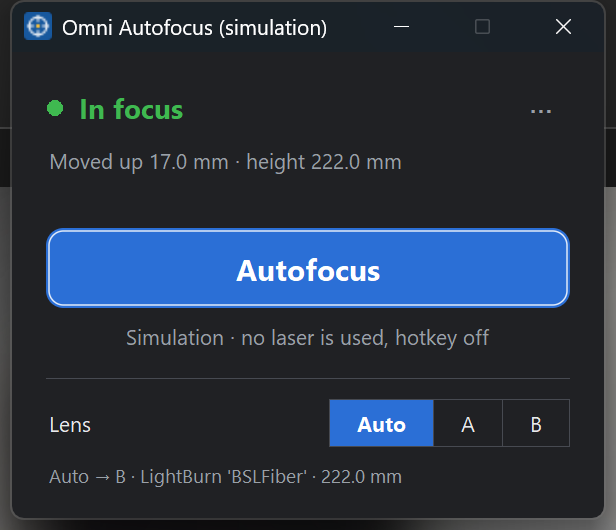
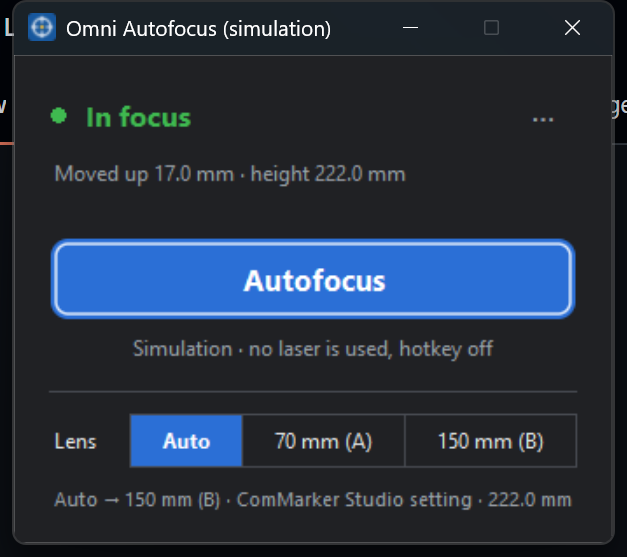
Show lenses by size in the app: 70 mm (A) / 150 mm (B)
The picker, the lens line, the first-use dialog and the fine-tuning result
name lenses by their field size from the laser's calibration, keeping
ComMarker's letter in brackets. Refreshed README screenshots.

diff --git a/src/omni_autofocus/app.py b/src/omni_autofocus/app.py
@@ -30,7 +30,19 @@ APP_NAME = "Omni Autofocus"
 RUN_KEY = r"Software\Microsoft\Windows\CurrentVersion\Run"
 RUN_VALUE = "OmniAutofocus"
 MUTEX_NAME = "Local\\OmniAutofocusApp"
-LENS_CHOICES = {"Auto": None, "A": "a", "B": "b"}
+LENS_CHOICES = {"Auto": None, "A": "a", "B": "b"}  # picker values (saved in the app state)
+
+
+def lens_name(letter: str, focus: config.FocusSettings) -> str:
+    """'150 mm (B)': the lens's field size from the calibration, with ComMarker's letter."""
+    letter = letter.upper()
+    size = focus.field_b_mm if letter == "B" else focus.field_a_mm
+    return f"{size:g} mm ({letter})"
+
+
+def lens_labels(focus: config.FocusSettings) -> dict[str, str]:
+    return {"Auto": "Auto", "A": lens_name("A", focus), "B": lens_name("B", focus)}
+
 
 # Status tones; ui.Palette has a colour for each.
 OK, WARN, ERR, INFO, BUSY = "ok", "warn", "err", "info", "busy"
@@ -46,7 +58,7 @@ class Cancelled(Exception):
 def describe_error(e: BaseException) -> str:
     """A short, actionable sentence for anything an operation can raise."""
     if isinstance(e, lens.LensError):
-        return "Cannot tell which lens is fitted. Choose Lens A or Lens B in this window."
+        return "Cannot tell which lens is fitted. Choose the lens size in this window."
     if isinstance(e, ControllerBusyError):
         return "The laser is busy. Stop the LightBurn job or close the framing preview, then try again."
     if isinstance(e, SensorNoTargetError):
@@ -92,10 +104,13 @@ def describe_result(r: autofocus.FocusResult) -> tuple[str, str, str]:
     return "Already in focus", f"Height {r.height_mm:.1f} mm · focus {r.target_mm:.1f} mm", OK
 
 
-def lens_summary(choice: str, why: str, target_mm: float | None) -> str:
-    """One quiet line, e.g. "Auto → B · LightBurn 'BSLFiber' · 222.0 mm"."""
+def lens_summary(
+    choice: str, why: str, target_mm: float | None, focus: config.FocusSettings | None = None
+) -> str:
+    """One quiet line, e.g. "Auto → 150 mm (B) · LightBurn 'BSLFiber' · 222.0 mm"."""
     letter = why.split(" (")[0].split()[-1].upper()
-    head = f"Auto → {letter}" if choice == "Auto" else f"Lens {letter}"
+    name = lens_name(letter, focus or config.FocusSettings())
+    head = f"Auto → {name}" if choice == "Auto" else f"{name} lens"
     if "from ComMarker" in why:  # checked first: this explanation also mentions LightBurn
         source = "ComMarker Studio setting"
     elif "LightBurn" in why:
@@ -358,6 +373,7 @@ class App:
             value=self.lens_choice,
             command=self._lens_changed,
             palette=p,
+            labels=lens_labels(self._startup_focus()),
             scale=sc,
         )
         self.lens_picker.pack(side="right")
@@ -437,6 +453,13 @@ class App:
             vx, vy, vw, vh = _virtual_screen()
             if vx <= x <= vx + vw - 100 and vy <= y <= vy + vh - 60:
                 self.root.geometry(f"+{x}+{y}")
+
+    def _startup_focus(self) -> config.FocusSettings:
+        """Lens sizes for the picker before the worker has loaded anything (never touches the laser)."""
+        try:
+            return self._session.settings(calibrate=False)[0].focus
+        except (OSError, ValueError):
+            return config.FocusSettings()
 
     def _show_menu(self) -> None:
         m = self.more
@@ -535,6 +558,8 @@ class App:
             self._set_detail(event[1])
         elif kind == "lens":
             self.lens_info.configure(text=event[1])
+        elif kind == "lens_labels":
+            self.lens_picker.relabel(event[1])
         elif kind == "app":
             self._apply_app_settings(event[1])
         elif kind == "ask":
@@ -655,8 +680,8 @@ class App:
                     if from_laser
                     else "Use these focus heights?\n\n"
                 )
-                + f"Lens A ({f.field_a_mm:g} mm field): {f.target_a_mm:.1f} mm\n"
-                + f"Lens B ({f.field_b_mm:g} mm field): {f.target_b_mm:.1f} mm\n\n"
+                + f"{lens_name('A', f)} lens: {f.target_a_mm:.1f} mm\n"
+                + f"{lens_name('B', f)} lens: {f.target_b_mm:.1f} mm\n\n"
                 + (
                     "ComMarker measured these at the factory. "
                     if source == "the laser"
@@ -667,7 +692,10 @@ class App:
 
         s, why, _note = self._session.settings_with_lens(calibrate=calibrate, accept=accept)
         self._post("app", s.app)
-        self._post("lens", lens_summary(self.lens_choice, why, s.focus.target_mm if calibrated else None))
+        self._post(
+            "lens", lens_summary(self.lens_choice, why, s.focus.target_mm if calibrated else None, s.focus)
+        )
+        self._post("lens_labels", lens_labels(s.focus))
         return s
 
     def _prepare(self) -> None:
@@ -946,7 +974,7 @@ class App:
         elif round(new - old, 1) == 0:
             text = f"Best focus matches the saved height ({old:.1f} mm).{lands}{edge}"
         else:
-            heights = f"lens {f.lens.upper()} focus height {old:.1f} → {new:.1f} mm"
+            heights = f"{lens_name(f.lens, f)} lens focus height {old:.1f} → {new:.1f} mm"
             text = f"Best focus {centre:+.1f} mm → {heights}.{lands}{edge}"
         self.t_outcome.configure(text=text)
         change = ok and round(new - old, 1) != 0

diff --git a/tests/test_app.py b/tests/test_app.py
@@ -109,7 +109,7 @@ def settle(w, timeout=10.0):
 
 
 def test_window_autofocus_in_simulation(window):
-    assert window.lens_info.cget("text").startswith("Auto → B")
+    assert window.lens_info.cget("text").startswith("Auto → 150 mm (B)")
     window.autofocus()
     settle(window)
     assert window.status.cget("text") == "In focus"
@@ -195,7 +195,7 @@ def test_first_run_shows_the_calibration_and_can_cancel(window, monkeypatch, tmp
     monkeypatch.setattr(window, "_ask_yes_no", lambda q, **kw: asked.append(q) or False)
     window.autofocus()
     settle(window)
-    assert "focus heights stored in your laser" in asked[0] and "Lens B (150 mm field): 222.0 mm" in asked[0]
+    assert "focus heights stored in your laser" in asked[0] and "150 mm (B) lens: 222.0 mm" in asked[0]
     assert window.status.cget("text") == "Not saved"
     assert not fresh.exists()  # declined: nothing saved
     board = window._session.open()[0].__enter__()
@@ -204,10 +204,12 @@ def test_first_run_shows_the_calibration_and_can_cancel(window, monkeypatch, tmp
 
 def test_lens_summary():
     why = "lens B (150 mm field, from the only BSL profile in LightBurn, 'BSLFiber')"
-    assert app.lens_summary("Auto", why, 222.0) == "Auto → B · LightBurn 'BSLFiber' · 222.0 mm"
-    assert app.lens_summary("A", "lens A (set explicitly)", None) == "Lens A · focus read on first use"
+    assert app.lens_summary("Auto", why, 222.0) == "Auto → 150 mm (B) · LightBurn 'BSLFiber' · 222.0 mm"
+    assert (
+        app.lens_summary("A", "lens A (set explicitly)", None) == "70 mm (A) lens · focus read on first use"
+    )
     assert app.lens_summary("Auto", "lens A (from ComMarker Studio's lens setting; x)", 181.0) == (
-        "Auto → A · ComMarker Studio setting · 181.0 mm"
+        "Auto → 70 mm (A) · ComMarker Studio setting · 181.0 mm"
     )
 
 
@@ -308,7 +310,7 @@ def test_fine_tune_full_run_saves_the_best_focus(window):
     assert board.sensor_mm == pytest.approx(reference, abs=0.01)  # back at focus
     window.t_low.select("−2", notify=True)
     window.t_high.select("+3", notify=True)
-    assert "222.0 → 222.5 mm" in window.t_outcome.cget("text")
+    assert "150 mm (B) lens focus height 222.0 → 222.5 mm" in window.t_outcome.cget("text")
     window._tune_save()
     settle(window)
     assert window.tune is None and window.status.cget("text") == "Focus saved"
@@ -434,4 +436,11 @@ def test_lens_summary_for_the_commarker_fallback_does_not_claim_lightburn():
         "lens B (from ComMarker Studio's lens setting; several BSL profiles in LightBurn, which does not "
         "record the one in use)"
     )
-    assert app.lens_summary("Auto", why, 222.0) == "Auto → B · ComMarker Studio setting · 222.0 mm"
+    assert app.lens_summary("Auto", why, 222.0) == "Auto → 150 mm (B) · ComMarker Studio setting · 222.0 mm"
+
+
+def test_picker_shows_lens_sizes_with_the_letters(window):
+    texts = [lbl.cget("text") for lbl in window.lens_picker._labels.values()]
+    assert texts == ["Auto", "70 mm (A)", "150 mm (B)"]
+    focus = config.FocusSettings(field_a_mm=110.0, field_b_mm=200.0)
+    assert app.lens_labels(focus) == {"Auto": "Auto", "A": "110 mm (A)", "B": "200 mm (B)"}

diff --git a/src/omni_autofocus/ui.py b/src/omni_autofocus/ui.py
@@ -256,6 +256,7 @@ class Segmented(tk.Frame):
         palette: Palette,
         scale: float = 1.0,
         pad: int = 14,
+        labels: dict[str, str] | None = None,
     ):
         super().__init__(parent, bg=palette.border, padx=1, pady=1)
         self.p, self.command = palette, command
@@ -265,7 +266,7 @@ class Segmented(tk.Frame):
         for i, option in enumerate(options):
             lbl = tk.Label(
                 self,
-                text=option,
+                text=(labels or {}).get(option, option),
                 padx=int(pad * scale),
                 pady=int(3 * scale),
                 cursor="hand2",
@@ -279,6 +280,12 @@ class Segmented(tk.Frame):
             focus_ring(lbl, palette.text, lambda o=option: self._bg(o))
             self._labels[option] = lbl
         self._paint()
+
+    def relabel(self, labels: dict[str, str]) -> None:
+        """Change what the options show; their values stay the same."""
+        for option, text in labels.items():
+            if option in self._labels:
+                self._labels[option].configure(text=text)
 
     def set_enabled(self, enabled: bool) -> None:
         self.enabled = enabled

diff --git a/README.md b/README.md
@@ -54,10 +54,11 @@ Good to know:
 
 ## Lenses
 
-The Omni takes two field lenses, each with its own focus height. The window shows which lens it uses
-and why.
+The Omni takes two field lenses, each with its own focus height. The window shows them by size, with
+ComMarker's letters for familiarity: **70 mm (A)** and **150 mm (B)** on the tested machine (the
+sizes come from your laser's calibration). The line under the picker says which lens is used and why.
 
-* **When you swap lenses, choose A or B in the window.** The choice is remembered. A wrong choice is
+* **When you swap lenses, choose its size in the window.** The choice is remembered. A wrong choice is
   caught by the question before any large move down.
 * **Auto** uses the field size of your LightBurn BSL device profile (70×70 mm → A, 150×150 mm → B),
   but only when LightBurn says which one: when there is a single BSL profile, or when the BSL
